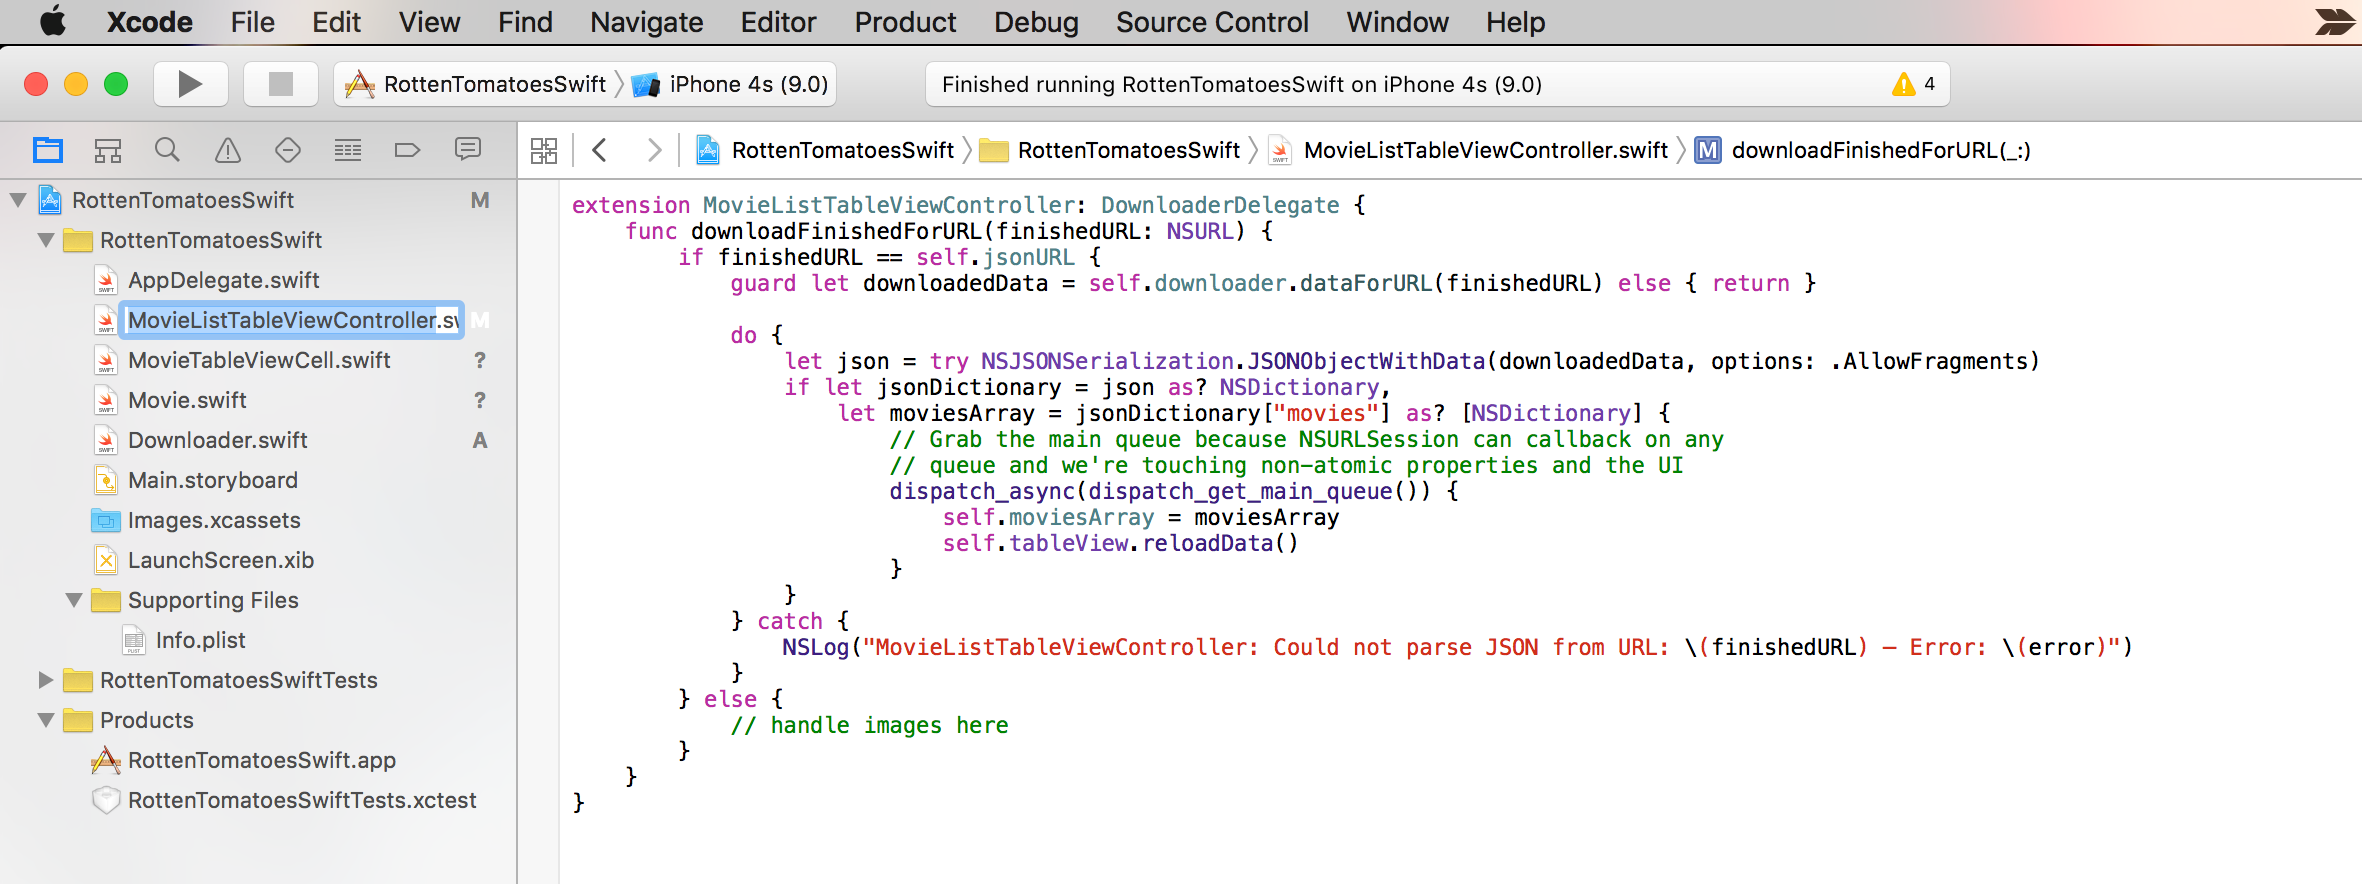
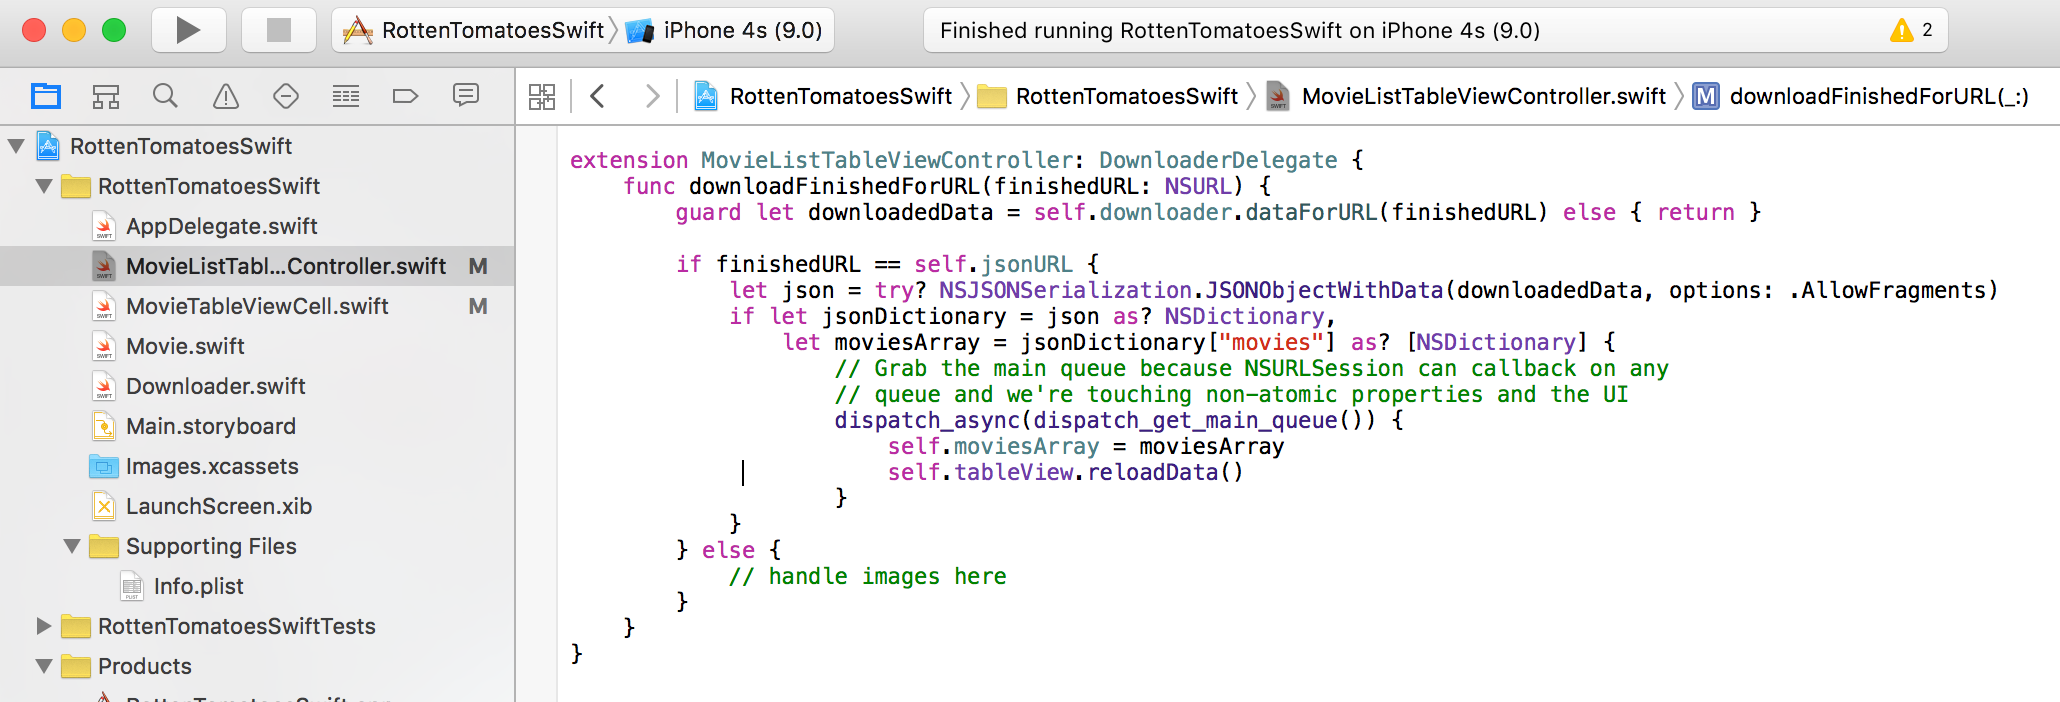
finished swift improvements

diff --git a/RottenTomatoesSwift/RottenTomatoesSwift/MovieListTableViewController.swift b/RottenTomatoesSwift/RottenTomatoesSwift/MovieListTableViewController.swift
@@ -10,7 +10,7 @@ import UIKit
 
 class MovieListTableViewController: UITableViewController {
     
-    private var moviesArray: [NSDictionary]?
+    private var moviesArray: [Movie]?
     private let downloader = Downloader()
     private let jsonURL: NSURL = {
         let apiKey = "qe43pmsb84evcmyj43gbe7j8"
@@ -21,85 +21,64 @@ class MovieListTableViewController: UITableViewController {
         super.viewDidLoad()
         
         self.downloader.delegate = self
-        
-        // Download rotten tomatoes file
-        
         self.downloader.beginDownloadingURL(self.jsonURL)
+    }
+    
+    override func tableView(tableView: UITableView, willDisplayCell cell: UITableViewCell, forRowAtIndexPath indexPath: NSIndexPath) {
+        guard let cell = cell as? MovieTableViewCell else { return }
+        guard let moviesArray = self.moviesArray else { return }
+        
+        let cellModel = moviesArray[indexPath.row]
+        cell.model = cellModel
+        
+        if let existingData = self.downloader.dataForURL(cellModel.posterURL),
+            let posterImage = UIImage(data: existingData) {
+                cell.updateDisplayImages(posterImage)
+        } else {
+            self.downloader.beginDownloadingURL(cellModel.posterURL)
+        }
+    }
+    
+    override func tableView(tableView: UITableView, cellForRowAtIndexPath indexPath: NSIndexPath) -> UITableViewCell {
+        let optionalCell = tableView.dequeueReusableCellWithIdentifier("MovieCell") as? MovieTableViewCell
+        guard let cell = optionalCell else { fatalError() }
+        return cell
     }
     
     override func tableView(tableView: UITableView, numberOfRowsInSection section: Int) -> Int {
         return self.moviesArray?.count ?? 0
     }
-    
-    override func tableView(tableView: UITableView, cellForRowAtIndexPath indexPath: NSIndexPath) -> UITableViewCell {
-        let optionalCell = tableView.dequeueReusableCellWithIdentifier("MovieCell") as? MovieTableViewCell
-        guard let moviesArray = self.moviesArray else { fatalError() }
-        guard let cell = optionalCell else { fatalError() }
-        
-        let movie = moviesArray[indexPath.row]
-        if let posterDictionary = movie["posters"] as? NSDictionary,
-            let posterURLString = posterDictionary["thumbnail"] as? String,
-            let posterURL = NSURL(string: posterURLString) {
-                
-                let movieTitle = movie["title"] as? String ?? "Title Not Found"
-                let movieDescription = movie["synopsis"] as? String ?? "Synopsys Not Found"
-                
-                let movieModel = Movie(title: movieTitle, description: movieDescription, posterURL: posterURL)
-                cell.model = movieModel
-        }
-        return cell
-    }
-    
-    func downloadImageURL(downloadURL: NSURL, forCell cell: MovieTableViewCell?) {
-        let request = NSURLRequest(URL: downloadURL, cachePolicy: NSURLRequestCachePolicy.ReturnCacheDataElseLoad, timeoutInterval: 10.0)
-        let task = NSURLSession.sharedSession().dataTaskWithRequest(request, completionHandler: { (downloadedData, response, error) in
-            if let httpResponse = response as? NSHTTPURLResponse {
-                switch httpResponse.statusCode {
-                case 200:
-                    // Grab the main queue because NSURLSession can callback on any
-                    // queue and we're touching non-atomic properties and the UI
-                    dispatch_async(dispatch_get_main_queue()) {
-                        if httpResponse.URL == cell?.posterURL {
-                            let image = UIImage(data: downloadedData!)
-                        } else {
-                            // The URL's don't match. That means that the cell has been "Reused" since starting this download
-                            // We can discard this download and do nothing
-                            // Hopefully, the appropriate downloaded for this cell has already started
-                            // If we were serious about error handling, we would have a way to verify that.
-                            NSLog("URL's Don't match: Download \(httpResponse.URL). Cell \(cell?.posterURL)")
-                        }
-                    }
-                default:
-                    break //handle http errors here
-                }
-            }
-        })
-        task.resume()
-    }
-    
 }
 
 extension MovieListTableViewController: DownloaderDelegate {
     func downloadFinishedForURL(finishedURL: NSURL) {
+        guard let downloadedData = self.downloader.dataForURL(finishedURL) else { return }
+        
         if finishedURL == self.jsonURL {
-            guard let downloadedData = self.downloader.dataForURL(finishedURL) else { return }
-            
-            do {
-                let json = try NSJSONSerialization.JSONObjectWithData(downloadedData, options: .AllowFragments)
-                if let jsonDictionary = json as? NSDictionary,
-                    let moviesArray = jsonDictionary["movies"] as? [NSDictionary] {
+            let json = try? NSJSONSerialization.JSONObjectWithData(downloadedData, options: .AllowFragments)
+            if let jsonDictionary = json as? NSDictionary,
+                let dictionaryArray = jsonDictionary["movies"] as? [NSDictionary] {
+                    let movieArray = Movie.moviesFromDictionaryArray(dictionaryArray)
+                    dispatch_async(dispatch_get_main_queue()) {
                         // Grab the main queue because NSURLSession can callback on any
                         // queue and we're touching non-atomic properties and the UI
-                        dispatch_async(dispatch_get_main_queue()) {
-                            self.moviesArray = moviesArray
-                            self.tableView.reloadData()
-                        }
-                }
-            } catch {
-                NSLog("MovieListTableViewController: Could not parse JSON from URL: \(finishedURL) – Error: \(error)")
+                        self.moviesArray = movieArray
+                        self.tableView.reloadData()
+                    }
             }
         } else {
-            // handle images here
+            guard let image = UIImage(data: downloadedData) else { return }
+            for cell in self.tableView.visibleCells {
+                guard let cell = cell as? MovieTableViewCell else { break }
+                if cell.model?.posterURL == finishedURL {
+                    // Grab the main queue because NSURLSession can callback on any
+                    // queue and we're touching non-atomic properties and the UI
+                    dispatch_async(dispatch_get_main_queue()) {
+                        cell.updateDisplayImages(image)
+                    }
+                    break
+                }
+            }
         }
     }
 }

diff --git a/RottenTomatoesSwift/RottenTomatoesSwift/Movie.swift b/RottenTomatoesSwift/RottenTomatoesSwift/Movie.swift
@@ -13,3 +13,36 @@ struct Movie {
     let description: String
     let posterURL: NSURL
 }
+
+extension Movie {
+    static func moviesFromDictionaryArray(dictionaryArray: [NSDictionary]) -> [Movie]? {
+        var movieArray = [Movie]()
+        
+        for dictionary in dictionaryArray {
+            if let posterDictionary = dictionary["posters"] as? NSDictionary,
+                let posterURLString = posterDictionary["thumbnail"] as? String,
+                let posterURL = NSURL(string: posterURLString) {
+                    
+                    let movieTitle = dictionary["title"] as? String ?? "Title Not Found"
+                    let movieDescription = dictionary["synopsis"] as? String ?? "Synopsys Not Found"
+                    
+                    movieArray += [Movie(title: movieTitle, description: movieDescription, posterURL: posterURL)]
+            }
+        }
+        
+        if movieArray.isEmpty == false {
+            return movieArray
+        } else {
+            return .None
+        }
+    }
+}
+
+
+
+
+
+
+
+
+

diff --git a/RottenTomatoesSwift/RottenTomatoesSwift/MovieTableViewCell.swift b/RottenTomatoesSwift/RottenTomatoesSwift/MovieTableViewCell.swift
@@ -23,6 +23,10 @@ class MovieTableViewCell: UITableViewCell {
     @IBOutlet private weak var movieTitleLabel: UILabel!
     @IBOutlet private weak var movieDescriptionLabel: UILabel!
     
+    func updateDisplayImages(newImage: UIImage) {
+        self.moviePosterImageView.image = newImage
+    }
+    
     var posterURL: NSURL?
     
 }

diff --git a/TextForGuide/Swift-Nice-ness.md b/TextForGuide/Swift-Nice-ness.md
@@ -1,13 +1,13 @@
 ## Improving Code with Swift Features
 
 ### Summary
-In this section we are going to improve the code with nice swift features and other miscellaneous improvements. Concepts we will introduce:
+In this section we are going to improve the code with nice swift features and other miscellaneous improvements. By the end, you’ll see how breaking the code up into several different areas of concerns really makes the code easier to read, understand, and debug. Concepts we will introduce:
 
 1. New Types, particularly structs. If possible you may want to explain the different between Reference types and Value types in swift.
 1. Guard statements in Swift and how to use them
 1. Private Methods / Properties
 1. Extensions
-1. Do/Catch error Handling in Swift
+1. try? in swift
 1. Using a Model for the Cell Class. We are going to give the cell a single item and it will lay itself out, instead of the ViewController doing it for the cell.
 1. Download class. We will create a class that downloads the artwork and notifies the cells as needed. This class will be very very generic, handling NSURL and NSData so it can be reused for many things.
 1. Protocols and Delegates. We are going to define Protocols for the download class so it can safely communicate with other objects.
@@ -16,16 +16,13 @@ In this section we are going to improve the code with nice swift features and ot
 1. Add a Movie.swift file. Create a struct called Movie with 3 properties: Title, Description, PosterURL
 1. Declare all the properties as let (read only)
 	* normally this is not required because setting a struct to a let variable automatically makes its properties read only. However, we are using a var to store the model property for the cell. Setting the Movie properties as let will guarantee us that the title, description and URL are never changed on us.
-	* reference screenshot
 	* [Screenshot](/ImagesForGuide/swiftNiceMovieType.png)
 1. Make the IBOutlets in the cell private
 1. add an internal property to the cell called model and make it of type movie
 1. In the didSet{} method of the model property, set the title and description labels, also set the image view to nil.
-	* reference screenshot
 	* [Screenshot](/ImagesForGuide/swiftNiceCell.png)
 1. In cellForRowAtIndexPath, use guards to make the cell and the moviesArray not optional
 1. Then create the Movie type and set it on the cell
-	* reference screenshot
 	* [Screenshot](/ImagesForGuide/swiftNiceTableView.png)
 1. Run. the movie titles and descriptions should work but no posters.
 
@@ -40,12 +37,10 @@ In this section we are going to improve the code with nice swift features and ot
 	1. In the 200 case, add the URL and data to the dictionary property. 
 	1. Don’t forgot to call resume() at the end of the closure.
 	1. Also, print to the console so we know data was downloaded
-		* Reference Screenshot
 		* [Screenshot](/ImagesForGuide/swiftNiceDownloaderClass.png)
 1. In the view controller declare a private let property for the new downloader class.
 	1. Then in viewDidLoad, delete all the NSURLSession code for downloaded the JSON file.
 	1. Instead, ask the downloader class to download the JSON file for us.
-		* Reference Screenshot
 		* [Screenshot](/ImagesForGuide/swiftNiceDownloaderViewController.png)
 1. Run - make sure the JSON data prints to the log
 
@@ -59,22 +54,62 @@ In this section we are going to improve the code with nice swift features and ot
 	1. in the required method, just print the URL that finishes downloading.
 	1. in viewDidLoad, make sure to set the delegate of the Downloader to self.
 	1. Run - make sure the JSON url prints in the console
-		* Reference Screenshot
 		* [Screenshot](/ImagesForGuide/swiftNiceDownloaderViewController_02.png)
 1. In the downloader class, create a dataForURL method that return NSData?. This method should be a 1 liner that returns the dictionary value of self.downloaded[url]
 1. In the viewController change the downloadFinishedForURL method to print(“url: \(finishedURL), data: \(self.downloader.dataForURL(finishedURL))”)
 
 ### 3) Parse the JSON Dictionary
 1. In the view controller, Declare the JSON URL as a let constant on the class.
-1. Check if the finishedURL matches the JSONURL
+1. Change viewDidLoad download to use this new constant property.
+1. In downloadFinishedForURL, Check if the finishedURL matches the JSONURL, if it does then this is the JSON file, not an image.
 1. change downloadFinishedForURL to guard to make sure the data for the URL is present.
-1. perform a do / catch block to convert the data into JSON, populate the moviesArray and then reload the tableView
+1. perform a try? to convert the data into JSON, populate the moviesArray and then reload the tableView
 1. Run, the table should now populate with no images again
-	* Reference Screenshot
 	* [Screenshot](/ImagesForGuide/swiftNiceDownloaderViewController_03.png)
 
 ### 4) Download Images for Cells
+1. In the MoveiTableViewCell create a method called updateDisplayImages(newImage: UIImage)
+	1. In this method, set the ImageView image property to the newImage.
+1. In the view controller override tableView:willDisplayCell:forRowAtIndexPath:
+1. In this method, guard to make sure the cell is of type MovieTableViewCell
+1. Also guard to make sure the cell who a model property set.
+1. In an if let statement, check the downloader if we already have data for this cell, then check if a UIImage can be made from the data.
+1. In this if let closure call updateDisplayImages on the cell with the image.
+1. In the else block, ask the downloader to download the URL.
+1. Run - images will be downloading and might display but it will be very unreliable and require scrolling around.
+	* [Screenshot](/ImagesForGuide/swiftNiceDownloaderViewController_04.png)
 
+### 5) Update Cells When Downloads Finish
+1. In the view controller, Delete the yucky existing downloadImageForCell method
+1. In the downloadFinishedForURL method, in the else block of the JSON URL if statement, we want to parse images out of the data received an update cells.
+1. guard to make sure we have valid image data
+1. Create a for in loop that iterates through self.tableView.visibleCells
+1. In the for in loop, guard to make sure the cell is of type MovieTableViewCell
+1. Then check the posterURL of the cell and see if it matches the finishedURL from the callback
+1. dispatch to the main queue to call updateDisplayImages on the cell with the image we created in the guard a couple steps back
+1. call break outside of the dispatch closure so we don’t keep looping
+1. Run - now everything should work really well
+	* [Screenshot](/ImagesForGuide/swiftNiceDownloaderViewController_05.png)
 
+### 6) Clean up the cellForRowAtIndexPathCode
+1. This code is pretty ugly because we’re parsing through an untyped dictionary of JSON. It would be nice if we preprocessed the JSON file into Movie types, stored an array of that and then populated the cells with already formatted data.
+1. In the Movie.swift file, create an extension of the Movie type. In the extension declare a static func called moviesFromDictionaryArray(dictionaryArray: [NSDictionary]) that returns an optional [Movie]?
+1. declare a variable at the top of the method called movieArray and initialize it to be an empty array of Movie type.
+1. In the view controller copy the code from cellForRowAtIndexPathCode where we parse the JSON and put it into this new static func
+1. Now create a for in loop on the dictionaryArray, in each loop use the code we pasted in and add the Movie to the movieArray declared earlier.
+1. Lastly, check if the movieArray isEmpty and if it is return nil, otherwise return the array.
+	* [Screenshot](/ImagesForGuide/swiftNiceMovieType_02.png)
+1. In the view controller, delete all the yucky code from cellForRowAtIndexPathCode, we’re only going to guard here to make sure the cell is of the right type and thats it.
+1. Change the moviesArray property on the viewController to be of type [Movie]?
+1. In downloadFinishedForURL we need to use the new static func we created on the movie type to populate self.moviesArray
+	* [Screenshot](/ImagesForGuide/swiftNiceDownloaderViewController_06.png)
+1. In tableView:willDisplayCell:forRowAtIndexPath: remove the guard that verifies the cell already has a model, add a guard to verify self.moviesArray exists
+1. Declare let cellModel = moviesArray[indexPath.row] to get the model out of the array
+1. Then set the model property on the cell with this new cellModel
+1. Run - everything should work as before
+	* [Screenshot](/ImagesForGuide/swiftNiceDownloaderViewController_07.png)
+
+### Project Files
+* [Project files at the end of this section](http://github.com/mobilebridge/iosbridge-rottentomatoes/releases/tag/v0.7-Swift-Improvements)
 
 
